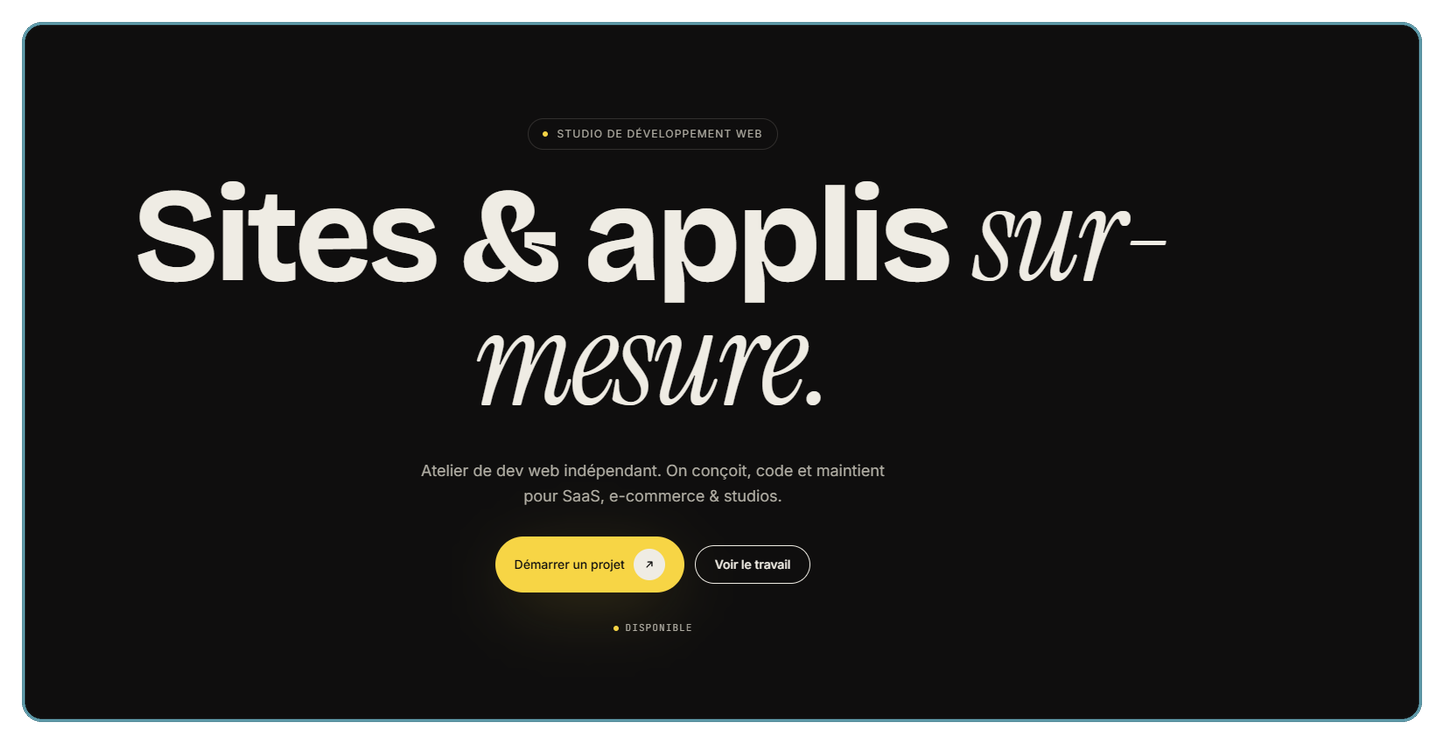
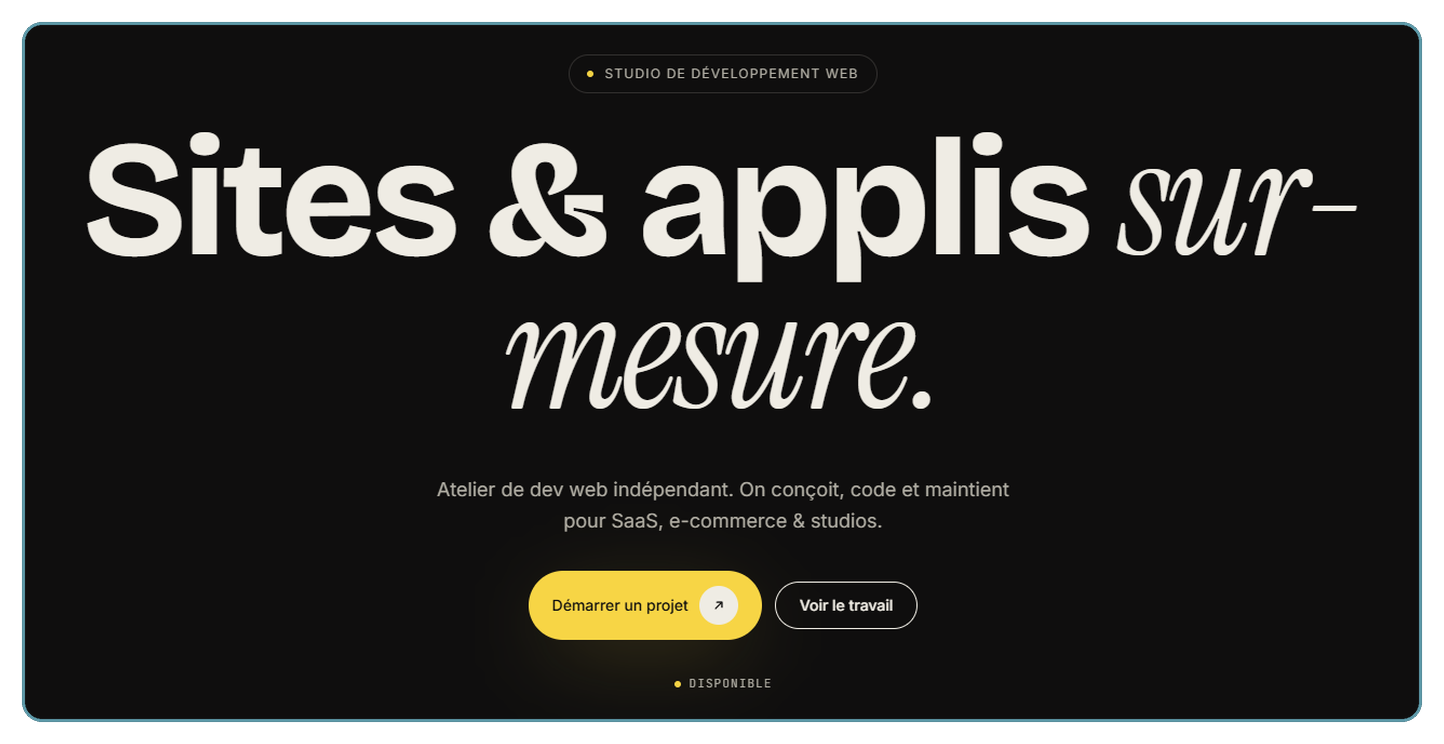
style: re-center VSK screenshot crop
Crop the VSK hero centered on its content bounding box so the title and
buttons sit in the middle of the frame; bump cache-buster to v=3.

Claude-Session: https://claude.ai/code/session_01KRj4cH5qqrxAjeZRVMtCXV

diff --git a/README.md b/README.md
@@ -46,7 +46,7 @@
 </p>
 
 <p align="center">
-  <a href="https://vskstudio.fr"><img src="assets/project-vsk.png?v=2" alt="VSK — Sites vitrines, e-commerce et applications web sur-mesure" width="98%" /></a>
+  <a href="https://vskstudio.fr"><img src="assets/project-vsk.png?v=3" alt="VSK — Sites vitrines, e-commerce et applications web sur-mesure" width="98%" /></a>
 </p>
 
 <div align="center">
